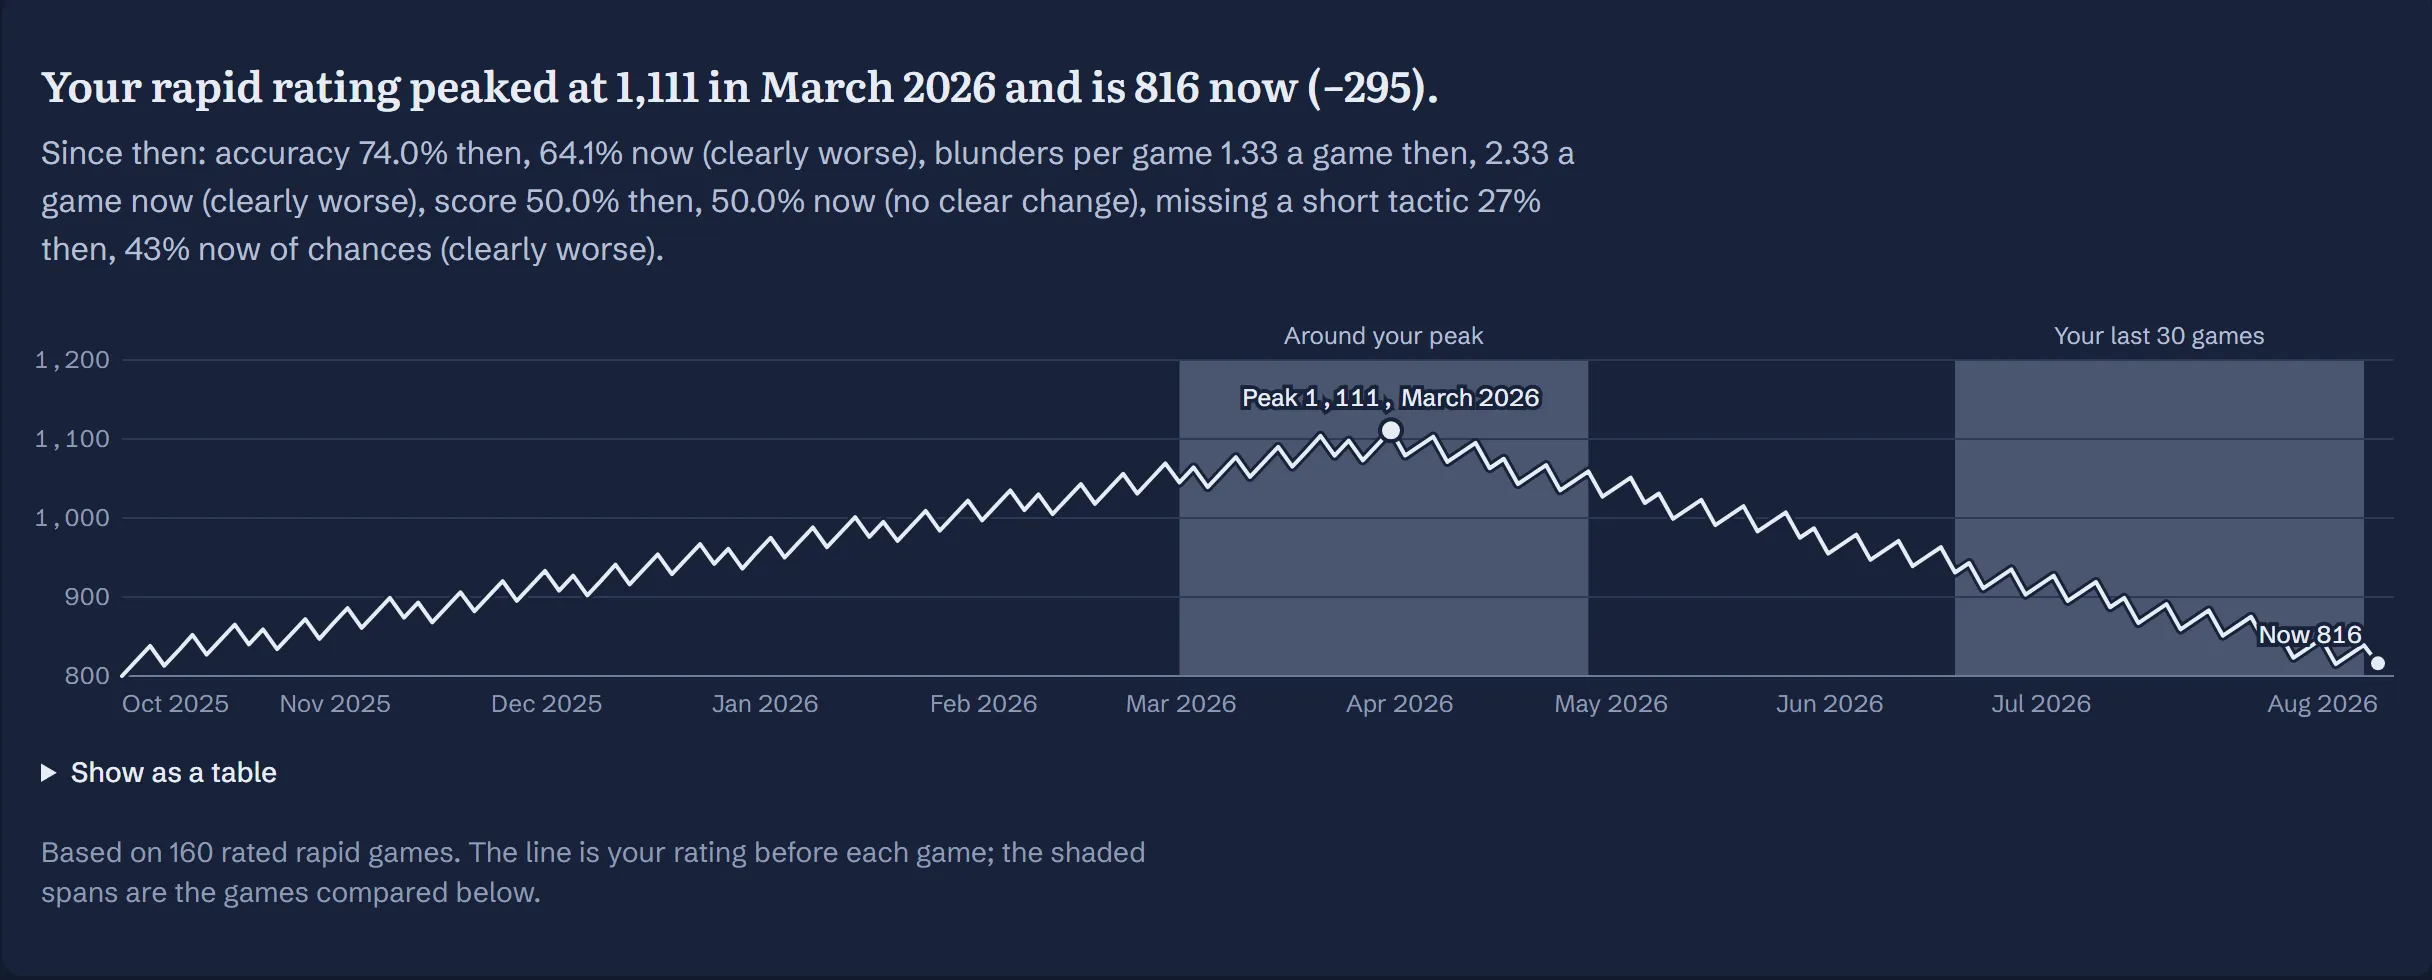
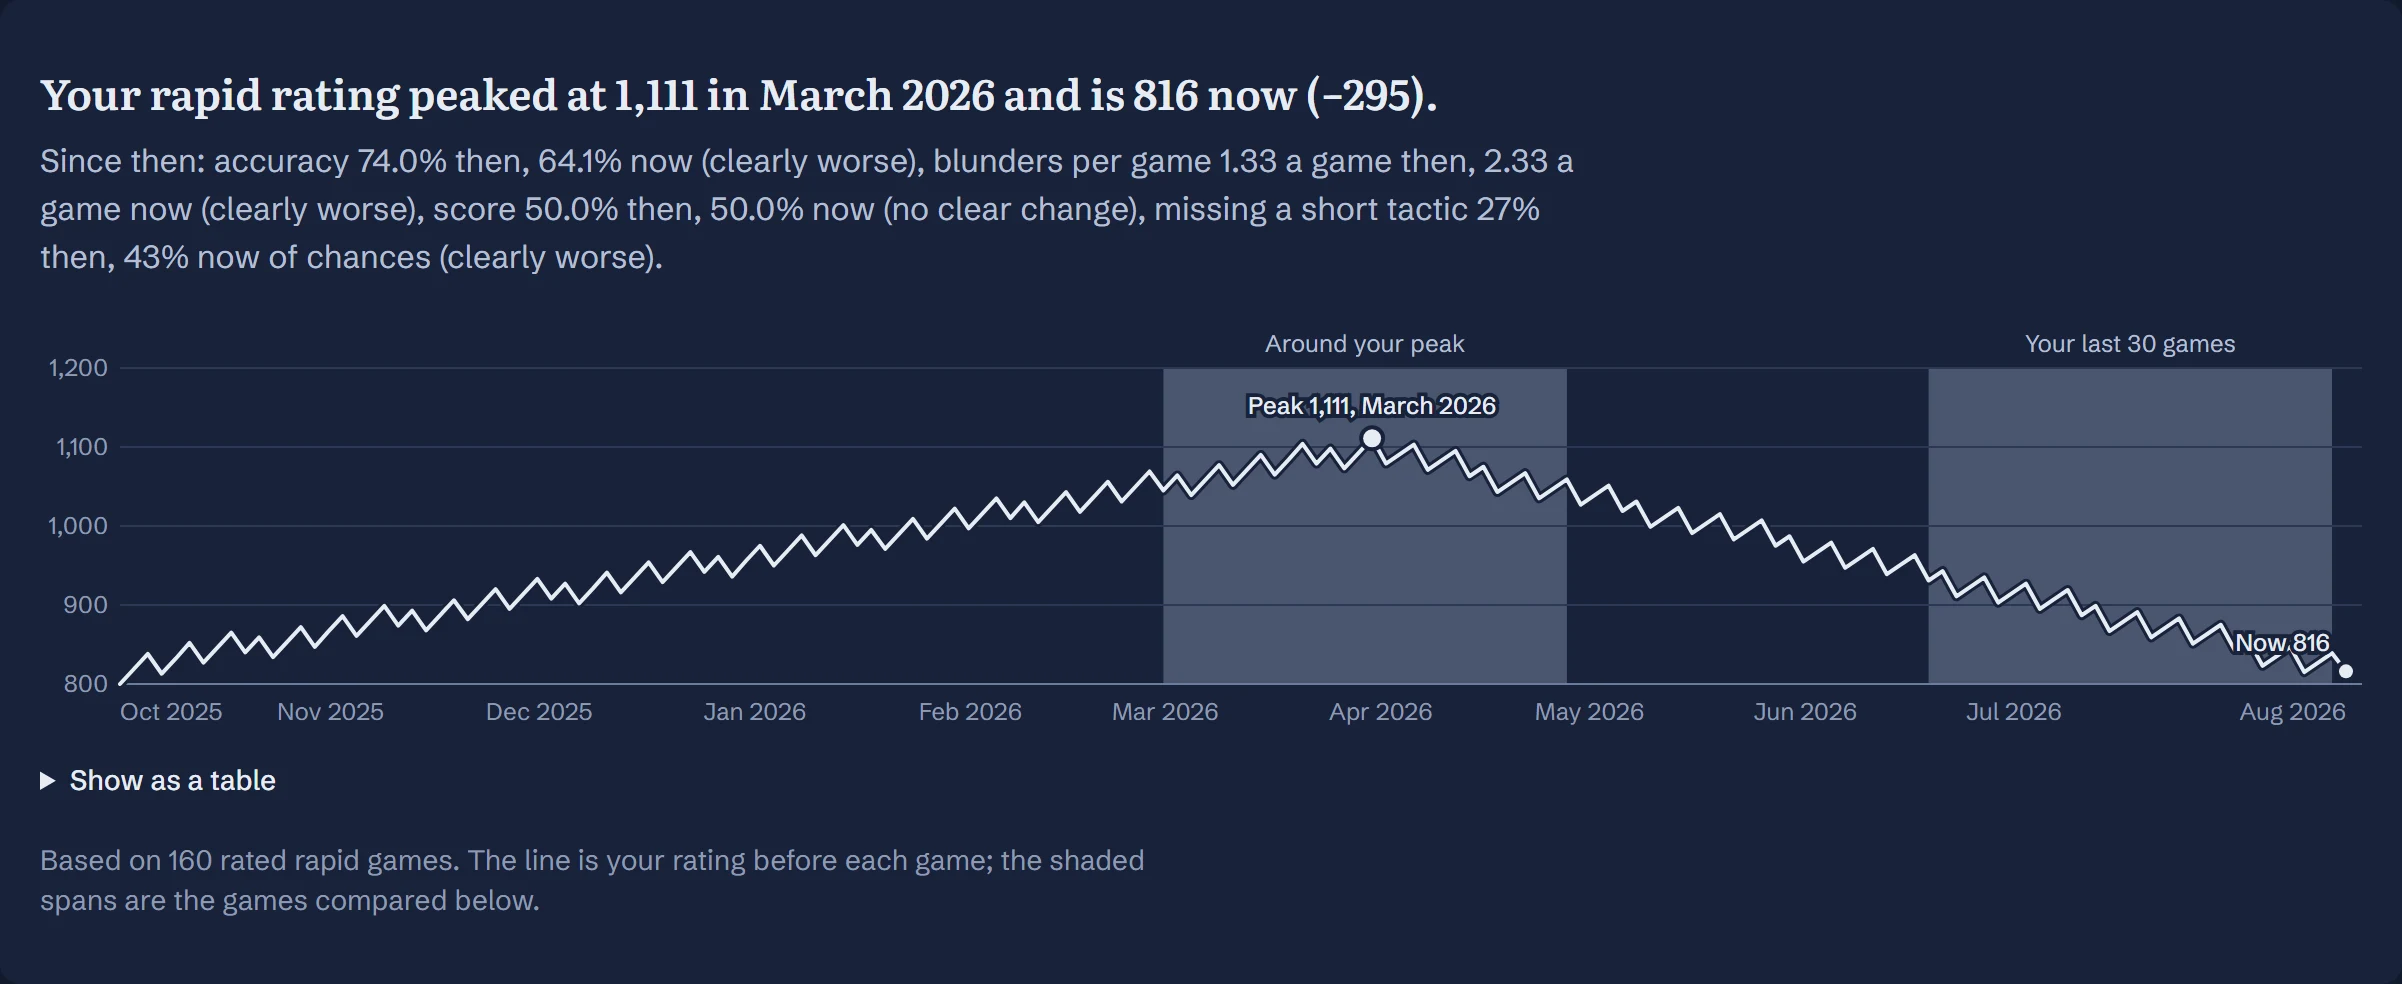
fix(web): the rating row says why it isn't called, in plainer words
The fresh design critique of the algo-5.0.0 trajectory change (ADR 0116)
passed with two copy fixes: "Not called" now explains itself in place,
and the rating tooltip leads with a plain sentence instead of "mean".
Re-made the README/site trajectory shot (fixed tick-label spacing) and
the styleguide trajectory visual baselines.

Claude-Session: https://claude.ai/code/session_016XcpEwGx7ugY9Hcujn2JhE

diff --git a/apps/web/src/app/(app)/app/_trajectory/glossary.ts b/apps/web/src/app/(app)/app/_trajectory/glossary.ts
@@ -27,7 +27,7 @@ export const TRAJECTORY_GLOSSARY = {
   trajectoryNotCalled: {
     name: "Rating trajectory",
     meaning: "Where your rating has been, its peak, and how your play then compares with now.",
-    measured: `Your rating before each rated game of the time control (on chess.com, your rating after the previous game). "Then" is the ${TRAJECTORY_WINDOW} games around your peak, or your first ${TRAJECTORY_WINDOW} games when the peak is recent; "now" is your last ${TRAJECTORY_WINDOW}. With fewer than ${2 * TRAJECTORY_WINDOW} rated games each window is half of them. A change in accuracy, blunders, score or a weakness is called only when the ${PCT}% evidence separates the two windows, with at least ${KPI_MIN_GAMES} games on each side. The rating's own change is shown and not called: see Rating.`,
+    measured: `Your rating before each rated game of the time control (on chess.com, your rating after the previous game). "Then" is the ${TRAJECTORY_WINDOW} games around your peak, or your first ${TRAJECTORY_WINDOW} games when the peak is recent; "now" is your last ${TRAJECTORY_WINDOW}. With fewer than ${2 * TRAJECTORY_WINDOW} rated games each window is half of them. A change in accuracy, blunders, score or a weakness is called only when the ${PCT}% evidence separates the two windows, with at least ${KPI_MIN_GAMES} games on each side. The rating's own change is shown and not called: see the Rating row.`,
     whyItMatters:
       "A rating moves for many reasons; comparing how you played then and now shows which ones are yours.",
     tip: "Start with the measure that is clearly worse: it is the likeliest place to work on.",
@@ -35,7 +35,7 @@ export const TRAJECTORY_GLOSSARY = {
   ratingNotCalled: {
     name: "Rating",
     meaning: "Your average rating before each game in the window.",
-    measured: `The mean of your pre-game ratings over the window's rated games, and the difference between the two windows. The difference is not called better or worse. A rating carries over from one game to the next, so ${TRAJECTORY_WINDOW} ratings in a row hold far less evidence than ${TRAJECTORY_WINDOW} separate results, and in a test on 700 simulated players whose strength never changed, the rule we used told 44% to 78% of them their rating was falling.`,
+    measured: `Your rating moves after every game, so a drop can look bigger than it is. The table shows the average of your pre-game ratings in each window and the difference, and that difference is not called better or worse. A rating carries over from one game to the next, so ${TRAJECTORY_WINDOW} ratings in a row hold far less evidence than ${TRAJECTORY_WINDOW} separate results. In a test on 700 simulated players whose strength never changed, the rule we used told 44% to 78% of them their rating was falling.`,
     whyItMatters:
       "A number that moves with every game is easy to over-read, so the table gives it as two averages and their difference.",
     tip: "Look at the measures that are clearly worse: they are the likeliest places to work on.",

diff --git a/apps/web/src/app/(app)/app/_trajectory/view.ts b/apps/web/src/app/(app)/app/_trajectory/view.ts
@@ -209,7 +209,8 @@ function change(r: { result: ThenNowRow["result"] }, detail: string | null): Com
 function ratingChange(t: Ready, shown: boolean): CompareChange {
   if (t.rating.verdict === "not_enough_games") return change({ result: t.rating }, null);
   const diff = `Difference ${signed(Math.round(t.rating.diff.value))} points`;
-  if (!shown) return { verdict: "withheld", text: "Not called", detail: diff };
+  const why = "A rating moves after every game, so this isn't judged on its own.";
+  if (!shown) return { verdict: "withheld", text: "Not called", detail: `${diff}. ${why}` };
   return change(
     { result: t.rating },
     `${diff}, 80% range ${signed(Math.floor(t.rating.diff.interval.low))} to ${signed(Math.ceil(t.rating.diff.interval.high))}`,

diff --git a/apps/web/test/trajectory/view.test.ts b/apps/web/test/trajectory/view.test.ts
@@ -132,7 +132,11 @@ describe("trajectoryView, with the rating's verdict withheld (EXP-0015, ADR 0116
       text: "Not called",
       detail: expect.any(String),
     });
-    expect(r?.change.detail).toMatch(/^Difference −\d+ points$/);
+    expect(r?.change.detail).toMatch(
+      /^Difference −\d+ points\. A rating moves after every game, so this isn't judged on its own\.$/,
+    );
+    expect(r?.explain.measured).toMatch(/^Your rating moves after every game/);
+    expect(r?.explain.measured).not.toMatch(/\bmean\b/);
     expect(r?.a.value).toMatch(/^\d,\d{3} on average$/);
     expect(r?.a.detail).toBe("30 rated games");
     expect(r?.b.detail).toBe("30 rated games");
